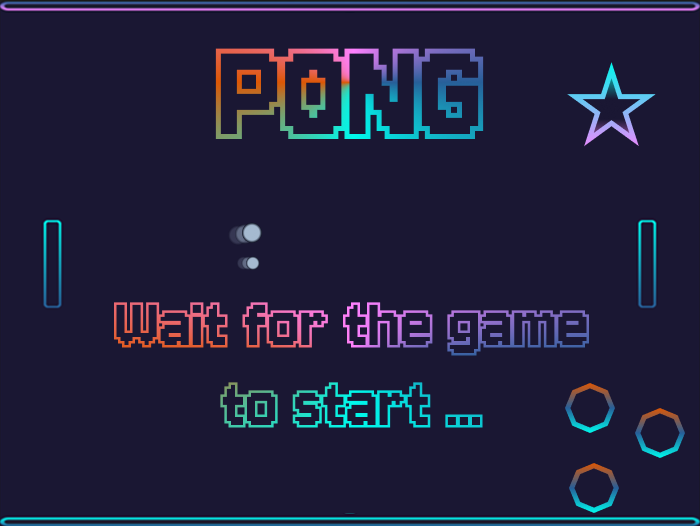
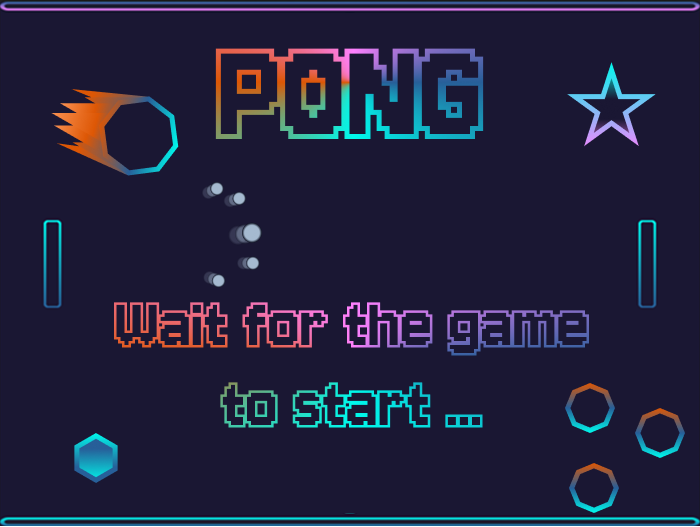
automatic

diff --git a/server.js b/server.js
@@ -12,11 +12,11 @@ import path from 'path';
 import { fileURLToPath } from 'url';
 
 //Game
-let tournament = true;
+let tournament = false;
 let operator = true;
 let local = true;
-let IA = false;
-let custom = true;
+let IA = true;
+let custom = false;
 let IA_diff = 1;
 let player_nbr = 4;
 
@@ -24,6 +24,7 @@ let player_nbr = 4;
 let clients = [];
 let id = 0;
 let gameInstance = null;
+let tournament_game = null;
 const pos = [6, WIDTH - 6, 16, WIDTH - 16];
 
 const __filename = fileURLToPath(import.meta.url);
@@ -51,12 +52,18 @@ fastify.register(async function (fastify){
 		connection.on('message', (message) => {
 			try {
 			    const data = JSON.parse(message);
-				// console.log(data.id);
-				if ((data.type === 'keydown' || data.type === 'keyup') && gameInstance) {
-					if (data.type === 'keydown')
-						gameInstance.inputpressed(data.key, data.id);
-					else
-						gameInstance.inputrelease(data.key, data.id);
+				if ((data.type === 'keydown' || data.type === 'keyup') && (gameInstance || tournament_game)) {
+					if (tournament){
+						if (data.type === 'keydown')
+							tournament_game.gameInstance.inputpressed(data.key, data.id);
+						else
+							tournament_game.gameInstance.inputrelease(data.key, data.id);
+					} else {
+						if (data.type === 'keydown')
+							gameInstance.inputpressed(data.key, data.id);
+						else
+							gameInstance.inputrelease(data.key, data.id);
+					}
 				}
 			} catch (e) {}
 		});
@@ -79,18 +86,35 @@ process.on('unhandledRejection', console.error);
 if (local){
 	if (tournament == true){
 		let player_list = [
-			{name : "Ness", rank : 0, player : null}, 
-			{name : "Lucas", rank : 0, player : null},
-			{name : "Wolf", rank : 0, player : null},
-			{name : "Shulk", rank : 0, player : null}];
+		{name : "Ness", rank : 0}, 
+		{name : "Lucas", rank : 0},
+		{name : "Wolf", rank : 0},
+		{name : "Amphinobi", rank : 0}, 
+		{name : "Mewtwo", rank : 0},
+		{name : "Mario", rank : 0},
+		{name : "Kirby", rank : 0},
+		{name : "Shulk", rank : 0},
+		{name : "Pikachu", rank : 0}, 
+		{name : "Link", rank : 0},
+		{name : "Zelda", rank : 0},
+		{name : "Mr.Game and Watch", rank : 0}, 
+		{name : "Ike", rank : 0},
+		{name : "Chrom", rank : 0},
+		{name : "Luigi", rank : 0},
+		{name : "Bowser", rank : 0}];
 
 		while (id < 1){
 			await utils.sleep(1000);
 		}
-
-		let tournament_game = new Tournament(clients, operator, player_list, custom, IA_diff);
+		if (n > 0 && (n & (n - 1)) === 0)
+			console.log("Tournament don't have enough player");
+		tournament_game = new Tournament(clients, operator, player_list, custom, IA_diff);
 		let winner = await tournament_game.tournament();
-		console.log("Winner is :", winner);
+		if (winner != null)
+			console.log("Winner is :", winner);
+		else
+			console.log("Tournament crash");
+		
 	} else {
 		while (id < 1){
 			await utils.sleep(1000);

diff --git a/pong_tournament.js b/pong_tournament.js
@@ -14,6 +14,7 @@ export class Tournament{
 		this.custom = custom;
 		this.IA_diff = IA_diff;
 		this.rank = players.length;
+		this.gameInstance = null;
 	}
 	do_groups(player_list){ 
 		let temp_array = [];
@@ -45,30 +46,33 @@ export class Tournament{
 		return (groups_temp);
 	}
 	async match(idx1, idx2){
-		this.players[idx1].player = new Player(this.clients[0].id, pos[0], 'w', 's', this.clients[0].connection);
-		this.players[idx2].player = new Player(this.clients[0].id, pos[1], 'ArrowUp', 'ArrowDown', this.clients[0].connection);
-		
-		const players = [this.players[idx1].player, this.players[idx2].player];
-		let gameInstance = new Game(this.operator, false, this.players, this.custom, this.IA_diff);
-		let winner = await gameInstance.startGame();
+		console.log(this.players[idx1].name , "VS", this.players[idx2].name)
+		const players_data = [new Player(this.clients[0].id, pos[0], 'w', 's', this.clients[0].connection),
+						new Player(this.clients[0].id, pos[1], 'ArrowUp', 'ArrowDown', this.clients[0].connection)];
+		this.gameInstance = new Game(this.operator, false, players_data, this.custom, this.IA_diff);
+		let winner = await this.gameInstance.startGame();
 		if (winner == "team1"){
 			this.players[idx2].rank = this.rank;
-			this.rank++;
+			this.rank--;
+			console.log("Winner of the match is :", this.players[idx1].name)
 			return idx1;
 		}
 		else if (winner == "team2"){
 			this.players[idx1].rank = this.rank;
-			this.rank++;
+			this.rank--;
+			console.log("Winner of the match is :", this.players[idx2].name)
 			return idx2;
 		}
 		return 0;
 	}
 	async choose_game(node){
 		if (Array.isArray(node) && node.length === 2 && typeof node[0] === typeof 1 && typeof node[1] === typeof 1) {
+			console.log("match");
 			let winneridx = await this.match(node[0], node[1]);
 			return winneridx;
 		}
 		if (Array.isArray(node)) {
+			console.log("submatch");
 			node[0] = await this.choose_game(node[0]);
 			node[1] = await this.choose_game(node[1]);
 		}
@@ -76,12 +80,15 @@ export class Tournament{
 	}
 	async tournament(){
 		if (this.groups == null) return ;
-		console.log(this.groups);
-		let winneridx = await this.choose_game(this.groups);
-		console.log("The winner is :", this.players[winneridx].name);
+		let winneridx = null;
+		while (typeof winneridx != typeof 1)
+			winneridx = await this.choose_game(this.groups);
+		this.players[winneridx].rank = this.rank;
+		console.log("The Great Winner of the Tournament is :", this.players[winneridx].name);
 		console.log("Ranking :");
+		let winner = this.players[winneridx].name;
 		this.players.sort((a, b) => a.rank - b.rank);
 		this.players.forEach(p => console.log(p.rank + " : " + p.name));
-		return this.players[winneridx];
+		return winner;
 	}
 }

diff --git a/game/display_pong.js b/game/display_pong.js
@@ -110,13 +110,13 @@ var nbrfont = [font0, font1, font2, font3, font4, font5, font6, font7, font8, fo
 var my_id = null;
 ws.onmessage = function (event) {
     var data = JSON.parse(event.data);
-    if (data.type === 'start') {
-        var state = data.state;
-        draw_start(state);
-    }
     if (data.type === 'state') {
         var state = data.state;
         draw_game(state);
+    }
+    if (data.type === 'start') {
+        var state = data.state;
+        draw_start(state);
     }
     if (data.type === 'welcome') {
         my_id = data.id;
@@ -156,8 +156,8 @@ function write_score(bsize, nbr, posx) {
 }
 function draw_game(screen) {
     return __awaiter(this, void 0, void 0, function () {
-        var i, j, i, _i, _a, obs, _b, _c, obs, w, h, cx, cy, _d, _e, obs, _f, _g, obs, _h, _j, obj, _k, _l, player, _m, _o, hole, _p, _q, obj, imageData, data, i;
-        return __generator(this, function (_r) {
+        var i, j, i, _i, _a, obs, _b, _c, obs, w, h, cx, cy, _d, _e, obs, _f, _g, obs, _h, _j, obj, _k, _l, player, _m, _o, hole, _p, _q, obj, _r, _s, ball, imageData, data, i;
+        return __generator(this, function (_t) {
             ctx.clearRect(0, 0, canvas.width, canvas.height);
             if (screen.gold_game)
                 ctx.drawImage(goldbackground_img, 0, 0, canvas.width, canvas.height);
@@ -234,6 +234,12 @@ function draw_game(screen) {
                     draw_image(obj, screen.ball_size * 1.5, ballImg);
             }
             if (screen.invisible_ball == false && ballImg.complete) {
+                ctx.globalAlpha = 0.5;
+                for (_r = 0, _s = screen.ball_array_past; _r < _s.length; _r++) {
+                    ball = _s[_r];
+                    draw_image(ball, screen.ball_size * 2, ballImg);
+                }
+                ctx.globalAlpha = 1.0;
                 draw_image(screen.ball, screen.ball_size * 2, ballImg);
             }
             if (screen.gameover == true) {

diff --git a/pong_web.js b/pong_web.js
@@ -4,7 +4,7 @@ import {FPS, HEIGHT, WIDTH, BASE_PLAYER_SPEED,
 	BASE_BALL_SPEED, MAX_BOUNCE_ANGLE, TOP_MARGIN,
 	KILL_MARGIN} from './pong_constant.js';
 import * as custom from './pong_custom.js';
-import {Team, Player, Ball} from './pong_class.js';
+import {Team, Player, Ball, Obstacle} from './pong_class.js';
 import * as utils from './pong_web_utils.js';
 
 export class Game {
@@ -18,7 +18,7 @@ export class Game {
 		this.start = false;
 		this.over = false;
 		this.point_value = 1;
-		this.MAX_SCORE = 10;
+		this.MAX_SCORE = 1;
 
 		this.ball = new Ball(WIDTH / 2, Math.floor(HEIGHT / 2),
 					Math.random() < 0.5 ? -1 : 1, 
@@ -41,6 +41,7 @@ export class Game {
 		this.futur_vision = 60;
 		this.ball_futur = {...this.ball};
 		this.ball_array_futur = new Set();
+		this.ball_array_past = [];
 		this.ball_real_array_futur = new Set();
 		this.effect = 0.15;
 		this.in_effect = false;
@@ -91,6 +92,8 @@ export class Game {
 		}
 
 		this.teams = [this.team1, this.team2];
+
+		this._gameOverResolver = null;
 	}
 
 	async startGame(){
@@ -105,6 +108,9 @@ export class Game {
 					if (team.frontplayer)
 						team.frontplayer.update_velocity();
 					})
+				// this.ball_array_past.push({x : this.ball.x, y : this.ball.y});
+				// if (this.ball_array_past.length > 5)
+				// 	this.ball_array_past.shift();
 			}, 100);
 
 			//Update the IA every 1 sec
@@ -455,6 +461,7 @@ export class Game {
 			ball: display_ball,
 			ball_size: this.ball_size,
 			ball_real_array_futur: this.ball_real_array_futur,
+			ball_array_past: this.ball_array_past,
 			vision: this.vision,
 			IA: this.IA,
 			target_IA: this.target_IA,

diff --git a/game/display_pong.ts b/game/display_pong.ts
@@ -85,13 +85,13 @@ const nbrfont : HTMLImageElement[] = [font0, font1, font2, font3, font4, font5, 
 let my_id :any = null;
 ws.onmessage = (event) => {
 	const data = JSON.parse(event.data);
-	if (data.type === 'start') {
-		const state = data.state;
-		draw_start(state);
-	}
 	if (data.type === 'state') {
 		const state = data.state;
 		draw_game(state);
+	}
+	if (data.type === 'start') {
+		const state = data.state;
+		draw_start(state);
 	}
 	if (data.type === 'welcome') {
 		my_id = data.id;
@@ -185,6 +185,10 @@ async function draw_game(screen : any){
 			draw_image(obj, screen.ball_size * 1.5, ballImg);
 	}
 	if (screen.invisible_ball == false && ballImg.complete){
+		ctx.globalAlpha = 0.5; 
+		for (let ball of screen.ball_array_past)
+			draw_image(ball, screen.ball_size * 2, ballImg);
+		ctx.globalAlpha = 1.0;
 		draw_image(screen.ball, screen.ball_size * 2, ballImg);
 	}
 	if (screen.gameover == true){
